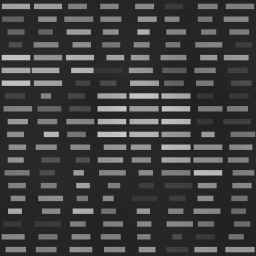
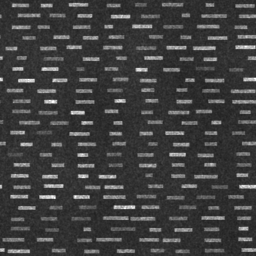
cabin777 py w5 (from A 6.4 / B 6.8): softer jittered dash weave (24 rows, ~11 mm dashes, 0.45-pitch bands, x0.6 amplitude, fine grain, small darker cells), bluer fabric base; varied angular wing petals; moulded literature bucket under the placards with a lower mesh band (san_20 / 26); 2 cm dark-grey
Claude-Session: https://claude.ai/code/session_01VymCPiy2Z6avefiviMypVA

diff --git a/cabin777/src/09b_py.js b/cabin777/src/09b_py.js
@@ -6,6 +6,7 @@
 // ================= PREMIUM ECONOMY (ZIM, 19 in, 15.6 in screen, leg rest + bicycle footrest) =================
 // PY w1: sp 0.5525 = 05_layout pySp (seat ids / eye points and geometry agreed only to 2-3 cm with the old 0.5715) [D]
 const PY = { back: 14 * DEG, hinge: [0.48, -0.09], sp: 0.5525 };
+const PYREAR = { c: '#5e636b', r: 0.42, l: LAYER.plastic };   // rear face of the shell + literature bucket (py_37304, san_26) [D]
 function pySeat(B, x0, lod, opts = {}) {
   const [hy, hz] = PY.hinge;
   const F = SEATMAT.pyFabric;
@@ -35,7 +36,7 @@ function pySeat(B, x0, lod, opts = {}) {
   // ANA: grey flank ~0.10 deep at the headrest, ~0.13 at the lumbar (py_37303), rear face rounding into the sides over
   // ~4 cm (py_37304); square-shouldered top so the wings never show from behind [D]
   const ds = [[-0.04, 0.08, 0.525], [0.12, 0.09, 0.525], [0.34, 0.10, 0.525], [0.5, 0.11, 0.525], [0.68, 0.115, 0.525], [0.78, 0.11, 0.522],
-    [0.84, 0.10, 0.52], [0.88, 0.095, 0.515], [0.905, 0.085, 0.505], [0.925, 0.065, 0.475], [0.94, 0.04, 0.41], [0.948, 0.015, 0.30]];
+    [0.84, 0.10, 0.52], [0.88, 0.095, 0.515], [0.905, 0.085, 0.505], [0.925, 0.07, 0.51], [0.94, 0.045, 0.47], [0.948, 0.015, 0.30]];
   loftAt(B, ds.map(([y, d, w]) => SEC(y, w, d, zr(y) - d / 2 + 0.01, Math.min(d / 2 - 0.002, 0.045))), BH, SEATMAT.pyShell, lod ? 2 : 3);
   // 6-way headrest with wings
   loftAt(B, [SEC(0.67, 0.42, 0.085, -0.008, 0.036), SEC(0.71, 0.39, 0.092, -0.012, 0.04), SEC(0.85, 0.39, 0.092, -0.012, 0.04), SEC(0.895, 0.37, 0.075, -0.006, 0.032), SEC(0.91, 0.33, 0.05, -0.002, 0.02)], BH, F, lod ? 3 : 4);
@@ -66,31 +67,34 @@ function pySeat(B, x0, lod, opts = {}) {
   // dark-grey hinge roller across the top of the stowed leg rest under the cushion nose, dark side links down to the
   // foot bar (py_37301, san_17) [D]
   B.add(gCyl(0.028, 0.028, 0.405, lod ? 8 : 14), M4.trs(x0, 0.305, -0.555, 0, 0, Math.PI / 2), SEATMAT.pyArm);
-  if (!lod) for (let k = 0; k < 6; k++) B.add(gBox(0.40, 0.003, 0.004), M4.trs(x0, 0.305 + 0.028 * Math.cos(-1.2 + k * 0.5), -0.555 - 0.028 * Math.sin(-1.2 + k * 0.5)), SEATMAT.black);   // flutes
+  if (!lod) for (let k = 0; k < 6; k++) B.add(gBox(0.40, 0.002, 0.002), M4.trs(x0, 0.305 + 0.028 * Math.cos(-1.2 + k * 0.5), -0.555 - 0.028 * Math.sin(-1.2 + k * 0.5)), { c: '#3e434b', r: 0.6 });   // flutes (w5: soft grooves)
   if (!lod) for (const s of [-1, 1]) B.add(gRBox(0.015, 0.26, 0.03, 0.006, 1), M4.trs(x0 + s * 0.205, 0.17, -0.55), SEATMAT.pyArm);
+  // w5 (A): darker rear face skin over the shell back (py_37304 rear shell / wall 0.41 vs 0.64-0.76 rendered; the side
+  // faces already matched 0.62 / 0.63); rear fittings sit on it, 5 mm out [D]
+  loftAt(B, [0.12, 0.3, 0.5, 0.7, 0.82, 0.88].map((y) => SEC(y, 0.47, 0.006, zr(y) + 0.011, 0.003)), BH, PYREAR, 2);
   if (lod) return;
-  const on = (y, dz = 0, dx = 0) => M4.mul(BH, M4.trs(dx, y, zr(y) + dz));
+  const on = (y, dz = 0, dx = 0) => M4.mul(BH, M4.trs(dx, y, zr(y) + dz + 0.005));
   if (!opts.noScreen) {
     // 15.6 in screen: black bezel 0.373 x 0.26 (active 0.345 x 0.195) in a grey housing ~0.44 x 0.30 that projects ~4 cm
     // and tilts top-back, its top just under the shell rim (py_37304: 1614 px/m; san_24) [D]
     const scr = (dz) => M4.mul(on(0.755, 0), M4.trs(0, 0, dz, 0, -6 * DEG));
     // ANA py_37304: bezel 0.376 x 0.263 set ~1 cm proud into the shell with a thin dark gap, framed by the shell rim
     // (~5 cm above it, 18 % of the bezel height) - no separate housing; placards 0.12 x 0.021, 1.7 cm under it [D]
-    B.add(gRBox(0.385, 0.272, 0.008, 0.006, 1), scr(0.006), SEATMAT.black);
+    B.add(gRBox(0.405, 0.29, 0.014, 0.008, 1), scr(0.006), { c: '#3a3d42', r: 0.45, l: LAYER.plastic });   // w5: ~2 cm dark-grey frame (san_26) [D]
     B.add(gRBox(0.376, 0.263, 0.012, 0.008, 1), scr(0.016), SEATMAT.bezel);
     B.add(gQuad(0.345, 0.194), scr(0.0235), SEATMAT.screen, atlasUV('screen'));
     for (const sx of [-0.113, 0.113]) B.add(gQuad(0.12, 0.022), on(0.60, 0.0115, sx), { c: '#e8e8e6', r: 0.6 });
   }
   {   // (row 25 backs too: seen from row 26)
-    // literature pocket ~3 cm under the placards (san_05 / san_08, alv_13; ANA shows no rear view this low): rigid tray
-    // lip, a flat grey panel with a shallow black mesh window and stitched border [D]
-    const py0 = 0.325;
-    B.add(gRBox(0.44, 0.045, 0.05, 0.014, 1), on(0.232 + py0, 0.024), SEATMAT.pyShell);
-    B.add(gRBox(0.36, 0.17, 0.016, 0.012, 1), on(0.135 + py0, 0.01), SEATMAT.pyShell);
-    B.add(gBox(0.30, 0.065, 0.003), on(0.12 + py0, 0.019), { c: '#16181b', r: 0.9, l: LAYER.grille });
-    for (const [sx, sy, w_, h_] of [[0, 0.156, 0.32, 0.002], [0, 0.084, 0.32, 0.002], [-0.16, 0.12, 0.002, 0.074], [0.16, 0.12, 0.002, 0.074]])
-      B.add(gBox(w_, h_, 0.002), on(sy + py0, 0.0185, sx), { c: '#9a9ca0', r: 0.6 });                            // stitched border
-    B.add(gBox(0.36, 0.008, 0.006), on(0.216 + py0, 0.036), SEATMAT.black);                         // pocket mouth shadow
+    // w5 (A + B): moulded literature bucket right under the placards (san_20 / san_26, b_gf_a380): slim rim at the mouth,
+    // the bucket bulging ~5 cm aft toward its rounded bottom, black mesh band across its lower front [D]
+    const py0 = 0.38;
+    B.add(gRBox(0.39, 0.014, 0.018, 0.006, 1), on(py0 + 0.185, 0.008), PYREAR);          // rim
+    B.add(gBox(0.36, 0.006, 0.006), on(py0 + 0.177, 0.016), SEATMAT.black);                       // mouth shadow
+    loftAt(B, [SEC(0.0, 0.30, 0.012, 0.006, 0.005), SEC(0.02, 0.36, 0.045, 0.022, 0.018), SEC(0.07, 0.38, 0.052, 0.026, 0.02),
+      SEC(0.14, 0.38, 0.034, 0.017, 0.014), SEC(0.18, 0.37, 0.014, 0.007, 0.006)], M4.mul(BH, M4.trs(0, py0, zr(py0 + 0.09) + 0.005)), PYREAR, 3);
+    B.add(gBox(0.33, 0.055, 0.003), on(py0 + 0.055, 0.054), { c: '#16181b', r: 0.9, l: LAYER.grille });   // mesh
+    for (const sy of [0.026, 0.084]) B.add(gBox(0.34, 0.003, 0.003), on(py0 + sy, 0.055), { c: '#9a9ca0', r: 0.6 });   // stitched edges
   }
   if (!opts.noScreen) {
     // gooseneck reading light: leaves the shell side at headrest height, arcs down + forward to a brushed-aluminium
@@ -100,8 +104,9 @@ function pySeat(B, x0, lod, opts = {}) {
     const sil = { c: '#c9ccd0', r: 0.25, m: 0.9, l: LAYER.brushed };
     B.add(gCyl(0.015, 0.018, 0.06, 10), M4.mul(BH, M4.trs(sd * 0.262, 0.84, zr(0.84) - 0.035, 0, Math.PI / 2)), sil);
     B.add(gCyl(0.01, 0.01, 0.006, 10), M4.mul(BH, M4.trs(sd * 0.264, 0.76, zr(0.76) - 0.03, 0, 0, Math.PI / 2)), { c: '#c7c9cc', r: 0.4 });
-    B.add(gTube([P(0.262, 0.84, zr(0.84) - 0.065), P(0.262, 0.83, -0.02), P(0.265, 0.74, -0.10), P(0.24, 0.62, -0.16)], 0.0095, 8), null, SEATMAT.black);
-    const hd = M4.mul(BH, M4.trs(sd * 0.238, 0.583, -0.204, 0, 50 * DEG));   // w4: head points forward-down ~45 deg (py_37305)
+    // w5 (B): stowed, the head hangs just ahead of the shell flank at wing height (py_37301 / 37303, san_26) [D]
+    B.add(gTube([P(0.262, 0.84, zr(0.84) - 0.065), P(0.262, 0.80, -0.03), P(0.255, 0.70, -0.07), P(0.247, 0.655, -0.083)], 0.0095, 8), null, SEATMAT.black);
+    const hd = M4.mul(BH, M4.trs(sd * 0.243, 0.60, -0.10, 0, 35 * DEG));
     B.add(gCyl(0.019, 0.019, 0.11, 12), hd,   // head ~38 x 115 mm (alv_17) [D]
     { c: '#c9ccd0', r: 0.25, m: 0.9, l: LAYER.brushed });
     B.add(gCyl(0.007, 0.007, 0.002, 10), M4.mul(hd, M4.trs(0, -0.025, 0.0192, 0, Math.PI / 2)), SEATMAT.black);   // lens on the side (py_37305)
@@ -110,13 +115,13 @@ function pySeat(B, x0, lod, opts = {}) {
   // common axle with silver end caps + centre hub, hung from the seat pan on one silver arm just off centre (w3; alv_06) [D]
   const fy = 0.30, fz = 0.13;
   for (const s of [-1, 1]) {
-    B.add(gCyl(0.021, 0.021, 0.13, 12), M4.trs(x0 + s * 0.08, fy, fz, 0, 0, Math.PI / 2), SEATMAT.black);
-    B.add(gCyl(0.023, 0.023, 0.014, 12), M4.trs(x0 + s * 0.152, fy, fz, 0, 0, Math.PI / 2), SEATMAT.frame);
+    B.add(gCyl(0.021, 0.021, 0.09, 12), M4.trs(x0 + s * 0.065, fy, fz, 0, 0, Math.PI / 2), SEATMAT.black);
+    B.add(gCyl(0.023, 0.023, 0.014, 12), M4.trs(x0 + s * 0.117, fy, fz, 0, 0, Math.PI / 2), SEATMAT.frame);
   }
-  B.add(gRBox(0.018, 0.17, 0.024, 0.006, 1), M4.trs(x0 + 0.03, fy + 0.085, fz - 0.045, 0, 32 * DEG), SEATMAT.frame);   // one arm (alv_06)
+  for (const s of [-1, 1]) B.add(gRBox(0.018, 0.17, 0.02, 0.006, 1), M4.trs(x0 + s * 0.03, fy + 0.085, fz - 0.01), SEATMAT.frame);   // w5: two vertical arms (san_20) [V]
   B.add(gCyl(0.024, 0.024, 0.03, 12), M4.trs(x0, fy, fz, 0, 0, Math.PI / 2), SEATMAT.frame);
   if (!lod) for (const s of [-1, 1]) for (let k = -2; k <= 2; k++)                                     // pad ribs
-    B.add(gBox(0.12, 0.003, 0.004), M4.trs(x0 + s * 0.08, fy + 0.02 * Math.cos(k * 0.35), fz + 0.02 * Math.sin(k * 0.35)), SEATMAT.hole);
+    B.add(gBox(0.08, 0.003, 0.004), M4.trs(x0 + s * 0.065, fy + 0.02 * Math.cos(k * 0.35), fz + 0.02 * Math.sin(k * 0.35)), SEATMAT.hole);
   for (const s of [-1, 1]) {
     B.add(gRBox(0.05, 0.012, 0.035, 0.005, 1), M4.trs(x0 + 0.03 * s, 0.488, -0.26), SEATMAT.buckle);
     B.add(gBox(0.045, 0.004, 0.16), M4.trs(x0 + 0.13 * s, 0.486, -0.19, s * 14 * DEG), { c: '#3c3f47', r: 0.7 });
@@ -140,8 +145,12 @@ function pyUnit(n, lod = false, opts = {}) {
       // lid: light blue-grey with a groove along it (ANA py_37303 / 37301; the dark stitched lid is a later generation)
       loftAt(B, [SEC(0.62, w + 0.004, 0.38, -0.2, 0.02), SEC(0.645, w + 0.008, 0.39, -0.2, 0.025), SEC(0.665, w, 0.38, -0.2, 0.02)], M4.trs(xa, 0, 0), SEATMAT.pyArmPad, 2);
       // nose: short square light-grey block with two cups side by side (py_37303, alv_18) [D]
-      B.add(gRBox(w + 0.004, 0.05, 0.09, 0.012, 1), M4.trs(xa, 0.64, -0.495), SEATMAT.pyBin);
-      if (!lod) for (const s of [-1, 1]) B.add(gCyl(0.029, 0.029, 0.004, 16), M4.trs(xa + s * 0.032, 0.664, -0.495), { c: '#8e9195', r: 0.5 });
+      // w5 (A + B): flush with the lid top (0.665), cups recessed as dark wells with a light rim (py_37303, san_16) [D]
+      B.add(gRBox(w + 0.004, 0.022, 0.09, 0.008, 1), M4.trs(xa, 0.654, -0.495), SEATMAT.pyArmPad);
+      if (!lod) for (const s of [-1, 1]) {
+        B.add(gCyl(0.03, 0.03, 0.002, 16), M4.trs(xa + s * 0.032, 0.6655, -0.495), { c: '#8e9195', r: 0.5 });
+        B.add(gCyl(0.026, 0.026, 0.003, 16), M4.trs(xa + s * 0.032, 0.667, -0.495), { c: '#3e4248', r: 0.7 });
+      }
       if (!lod) {
         B.add(gBox(0.006, 0.003, 0.36), M4.trs(xa, 0.6655, -0.21), { c: '#4a5058', r: 0.7 });            // lid groove
         // each side face: silver plaque ~0.16 x 0.028 with the seat letter + two buttons (py_37303 'H'), black handset
@@ -209,9 +218,11 @@ function pyUnit(n, lod = false, opts = {}) {
     if (inner && !lod) {
       // brushed-aluminium two-cell bottle bin on the console rear at knee height for the row behind (san_16 / 17 / 18)
       // PY w2: floor-standing silver bin, two square ~7 cm cups at the top (~0.44), white placard (alv_07, san_07) [D]
-      B.add(gRBox(0.145, 0.44, 0.08, 0.012, 1), M4.trs(xa, 0.22, 0.045), SEATMAT.pyBin);
-      for (const s of [-1, 1]) {        // recessed brushed cups with thin walls, grey floor (alv_07)
-        B.add(gRBox(0.056, 0.004, 0.058, 0.01, 1), M4.trs(xa + s * 0.033, 0.4405, 0.045), { c: '#6e7276', r: 0.45, m: 0.6 });   // shadowed cup floor
+      B.add(gRBox(0.145, 0.37, 0.08, 0.012, 1), M4.trs(xa, 0.185, 0.045), SEATMAT.pyBin);
+      for (const s of [-1, 1]) {        // w5: open cups, thin brushed walls 0.37-0.44 over a shadowed floor (san_20) [V]
+        B.add(gRBox(0.056, 0.004, 0.058, 0.01, 1), M4.trs(xa + s * 0.033, 0.372, 0.045), { c: '#6e7276', r: 0.45, m: 0.6 });
+        for (const [dx, dz, ww, dd] of [[0, 0.033, 0.07, 0.004], [0, -0.033, 0.07, 0.004], [0.033, 0, 0.004, 0.07], [-0.033, 0, 0.004, 0.07]])
+          B.add(gBox(ww, 0.07, dd), M4.trs(xa + s * 0.033 + dx, 0.405, 0.045 + dz), SEATMAT.pyBin);
       }
       B.add(gQuad(0.08, 0.03), M4.trs(xa, 0.36, 0.0855), { c: '#e6e6e2', r: 0.6 });
     }

diff --git a/cabin777/src/09_seats.js b/cabin777/src/09_seats.js
@@ -61,7 +61,7 @@ const SEATMAT = {
   // shells / wall 0.38-0.42 (san_03 71-82 / 189, py_37303) [D]
   // ANA official look (user decision): wall-balanced consensus of py_37301-05 (wall = #e8e8e8): back #7f8490, wing #848899,
   // flap #3c4770 (B/R ~1.8 sRGB), shell #75808c, console #6c7684; all blue-grey (B > G >= R) [D]
-  pyFabric: { c: photoBase('#848896', 'py_back'), r: 0.9, l: LAYER.pyFleck },
+  pyFabric: { c: photoBase('#787f9a', 'py_back'), r: 0.9, l: LAYER.pyFleck },   // w5: bluer + a touch darker, q13 back mean ~#6b79a0 vs py_37302 foreground back #6b7b9e [D]
   pyCover: { c: '#343c5c', r: 0.45, l: LAYER.leather },   // navy satin leatherette, fine pebble grain; #34406e rendered royal blue (ACES) vs py_37302 #2f3c6c
   pyWing: { c: photoBase('#8a8c9c', 'py_confetti'), r: 0.9, l: LAYER.pyConfetti },
   pyShell: { c: '#7a8088', r: 0.42, l: LAYER.plastic },   // w2: rear shell / wall 0.28-0.34 rendered vs 0.4-0.6 in photos

diff --git a/cabin777/test/make_swatches.py b/cabin777/test/make_swatches.py
@@ -73,40 +73,39 @@ def _blur_wrap(a, s):
 def synth_py_back(ratio, seed=7):
     """PY: redrawn crisply from ANA's official photos (user decision: ANA official look; the 2026 trip-report herringbone
     is a later fabric generation). Measured on py_37305 / 37301 (fabric research, ~980-1250 px/m) [D]:
-    horizontal light dashes in rows, pitch 8.15 mm (20 rows per 0.163 m tile), dash bands 3.5-4 mm thick; dashes sit in
-    columns (not brick bond), column pitch ~20 mm (8 per tile), dash length p50 13-15 mm (N(21, 5) px), gaps ~5 mm, ends
-    square; light fraction ~0.38; dash ~5x the ground (linear); rectangular cell-snapped dark patches (1-2 cols x 1-3
-    rows, dashes x0.3-0.5, ~7 per tile) and light patches (1-3 cols x 2-4 rows, x1.3 with gaps closed, ~5 per tile);
-    no soft blobs"""
+    horizontal light dashes in rows, rows ~6.8 mm apart (24 per 0.163 m tile; py_37305 ~7 mm), dash bands ~0.45 of the
+    row pitch with soft edges; dashes loosely in columns (~20 mm, 8 per tile) but jittered +-4 mm and every other row
+    shifted 1/4 column (py_37301-03 row-to-row correlation 0.02-0.09 vs 0.43-0.49 for a strict grid, w5 rater A);
+    dash length p50 ~11 mm (N(18, 4) px), brightness +-25 %; small darker cells (1 col x 1-2 rows, dashes x0.5-0.7)
+    and a few slightly lighter ones; dash ~2.6x the ground ((p90-p10)/p50 0.39-0.51 on py_37301, w5 rater B); fine
+    weave grain [D]"""
     rng = np.random.default_rng(seed)
-    rows, cols = 20, 8
+    rows, cols = 24, 8
     ph, cw = S / rows, S / cols
-    dim = np.ones((rows, cols)); close = np.zeros((rows, cols), bool)
-    for _ in range(10):                            # dark patches
+    dim = np.ones((rows, cols))
+    for _ in range(16):                            # darker cells
         r0, c0 = rng.integers(0, rows), rng.integers(0, cols)
-        for r in range(r0, r0 + rng.integers(1, 4)):
-            for c in range(c0, c0 + rng.integers(1, 3)): dim[r % rows, c % cols] = rng.uniform(0.2, 0.4)
-    for _ in range(5):                             # light patches
+        v = rng.uniform(0.5, 0.7)
+        for r in range(r0, r0 + rng.integers(1, 3)): dim[r % rows, c0] = v
+    for _ in range(3):                             # slightly lighter cells
         r0, c0 = rng.integers(0, rows), rng.integers(0, cols)
-        for r in range(r0, r0 + rng.integers(2, 5)):
-            for c in range(c0, c0 + rng.integers(1, 4)): dim[r % rows, c % cols] = 1.3; close[r % rows, c % cols] = True
+        for r in range(r0, r0 + rng.integers(1, 3)):
+            for c in range(c0, c0 + rng.integers(1, 3)): dim[r % rows, c % cols] = 1.15
     y = np.arange(S)[:, None] + 0.5; x = np.arange(S)[None, :] + 0.5
     lite = np.zeros((S, S))
     for r in range(rows):
-        yc = (r + 0.5) * ph
-        band = np.clip((3.2 - np.abs(((y - yc + S / 2) % S) - S / 2)) / 1.0, 0, 1)[:, 0]    # ~6.4 px = 4 mm thick
-        line = np.zeros(S)
         for c in range(cols):
-            ln = np.clip(rng.normal(21, 5), 10, 30)
-            if close[r, c]: ln = cw - rng.uniform(1.5, 3)
-            x0 = c * cw + (cw - ln) / 2 + rng.uniform(-4, 4) * (not close[r, c])
+            yc = (r + 0.5) * ph + rng.uniform(-0.8, 0.8)
+            ln = np.clip(rng.normal(18, 4), 9, 27)
+            x0 = c * cw + (cw - ln) / 2 + (cw / 4) * (r % 2) + rng.uniform(-6, 6)
             u = (x[0] - x0) % S
-            seg = np.clip(np.minimum(u, ln - u) / 1.0, 0, 1) * (u < ln)
-            line = np.maximum(line, seg * np.clip(rng.normal(1, 0.2), 0.6, 1.4) * dim[r, c])
-        lite = np.maximum(lite, band[:, None] * line[None, :])
-    out = 1 + 2.6 * lite                           # dash ~3.6x ground: 5x read as a barcode at seat distance (render vs py_37302)
+            seg = np.clip(np.minimum(u, ln - u) / 1.5, 0, 1) * (u < ln)
+            band = np.clip((2.4 - np.abs(((y[:, 0] - yc + S / 2) % S) - S / 2)) / 1.2, 0, 1)   # ~4.8 px = 3 mm, 0.45 of the pitch
+            lite = np.maximum(lite, band[:, None] * seg[None, :] * np.clip(rng.normal(1, 0.25), 0.5, 1.5) * dim[r, c])
+    out = 1 + 2.1 * lite                           # w5: 2.6 read as a barcode (A + B)
     mot = _blur_wrap(ratio.mean(2), 24); mot = (mot - mot.mean()) / (mot.std() + 1e-6)
     out *= np.exp(0.05 * mot)                      # very weak low-frequency term only
+    out *= np.exp(0.06 * _blur_wrap(rng.normal(0, 1, (S, S)), 0.6) / 0.3)   # fine weave grain
     return np.repeat(out[:, :, None], 3, 2)
 
 
@@ -119,22 +118,25 @@ def synth_py_confetti(ratio, seed=11):
     out = np.ones((S, S))
     yy, xx = np.mgrid[0:S, 0:S] + 0.5
     pts = []
-    while len(pts) < 14:
+    while len(pts) < 14:                          # w5 (A + B): fewer, more varied chips (polka dots before)
         p = rng.uniform(0, S, 2)
-        if all(min(abs(p[0] - q[0]), S - abs(p[0] - q[0])) ** 2 + min(abs(p[1] - q[1]), S - abs(p[1] - q[1])) ** 2 > 45 ** 2 for q in pts): pts.append(p)
+        if all(min(abs(p[0] - q[0]), S - abs(p[0] - q[0])) ** 2 + min(abs(p[1] - q[1]), S - abs(p[1] - q[1])) ** 2 > 38 ** 2 for q in pts): pts.append(p)
     for cy, cx in pts:
         dy = (yy - cy + S / 2) % S - S / 2; dx = (xx - cx + S / 2) % S - S / 2
-        a = rng.uniform(0, 2 * np.pi); e = rng.uniform(1.2, 1.9); req = np.clip(rng.normal(10, 2), 7, 13)
+        a = rng.uniform(0, 2 * np.pi); e = rng.uniform(1.2, 2.4); req = np.clip(rng.normal(7, 2.5), 3.5, 10)
         u = dx * np.cos(a) + dy * np.sin(a); v = -dx * np.sin(a) + dy * np.cos(a)
         th = np.arctan2(v * e, u); rr = np.hypot(u / np.sqrt(e), v * np.sqrt(e))
         k = rng.integers(5, 8); ph0 = rng.uniform(0, 6)
         # polygonal chip: facets from a k-gon, pointed tip at th=0, shallow notch at th=pi (sakura petal)
-        poly = (np.cos(np.pi / k) / np.cos((th + ph0) % (2 * np.pi / k) - np.pi / k)) ** 0.7   # softened facets
+        poly = (np.cos(np.pi / k) / np.cos((th + ph0) % (2 * np.pi / k) - np.pi / k)) ** 1.0   # sharp facets
         prof = req * poly * (1 + 0.18 * np.cos(th)) * (1 - 0.22 * np.exp(-((np.abs(th) - np.pi) / 0.25) ** 2))
-        out += 5.0 * np.clip(rng.normal(1, 0.15), 0.7, 1.3) * np.clip((prof - rr) / 1.0, 0, 1)
+        out += 3.2 * np.clip(rng.normal(1, 0.15), 0.7, 1.3) * np.clip((prof - rr) / 1.0, 0, 1)
     for cy, cx in rng.uniform(0, S, (60, 2)):
         rr = np.hypot((yy - cy + S / 2) % S - S / 2, (xx - cx + S / 2) % S - S / 2)
         out += rng.uniform(0.5, 1.0) * np.clip((rng.uniform(2, 5) - rr) / 1.0, 0, 1)
+    for cy, cx in rng.uniform(0, S, (30, 2)):      # w5: mid-size specks 3-6 mm (py_37305 petals 3-12 mm)
+        rr = np.hypot((yy - cy + S / 2) % S - S / 2, (xx - cx + S / 2) % S - S / 2)
+        out += rng.uniform(1.5, 2.5) * np.clip((rng.uniform(2, 3.5) - rr) / 1.0, 0, 1)
     out *= np.exp(0.08 * _blur_wrap(rng.normal(0, 1, (S, S)), 0.8) / 0.25)
     return np.repeat(out[:, :, None], 3, 2)
 

diff --git a/cabin777/review/qa/from_py.md b/cabin777/review/qa/from_py.md
@@ -15,3 +15,15 @@
 - Row 25 faces the J/PY bulkhead, which carries wall-mounted monitors and literature pockets (real photos ref/web/py
   alv_14 / alv_15 / san_03, and ANA py_37303). The monitors are already modelled (`monitor: true`); please check them
   against alv_14 (two monitors per seat pair at about eye height, with grey pockets below).
+
+## Wave 3 (w5)
+
+3. **To integration (`src/06_atlas.js`), low:** both w5 raters mark the two white seat-back placards under the PY screen
+   as blank. Real placards (san_26, py_37304) are ~0.12 x 0.022 m, white with 2 small grey lines (JP + EN) and a pictogram
+   at the left. Please add an atlas rect `pyPlacard` (2 lines of ~#707070 text on #e8e8e6). `09b_py.js` will then use
+   `atlasUV('pyPlacard')` on the two quads at `on(0.60, 0.0115, +-0.113)` (currently plain `#e8e8e6`).
+4. **To integration (`test/qa.js`), repeat of item 2:** still no rear-facing PY view, so the screen frame, the literature
+   bucket, the footrest and the bottle bins are only rated in the studio. Suggested
+   `q13b_pyBacks: [\`__rel('26H', 0.1, 1.45, 1.25, 0.05, -0.3)\`, ['py_37304'], 'PY seat backs']` (pairs with san_26).
+5. **To lighting, low (w5 rater B):** q14 shows a hard-edged bright quadrilateral sun patch on the window-seat back;
+   please soften the window sun footprint on seats (same as the q04 item in from_integration.md).
